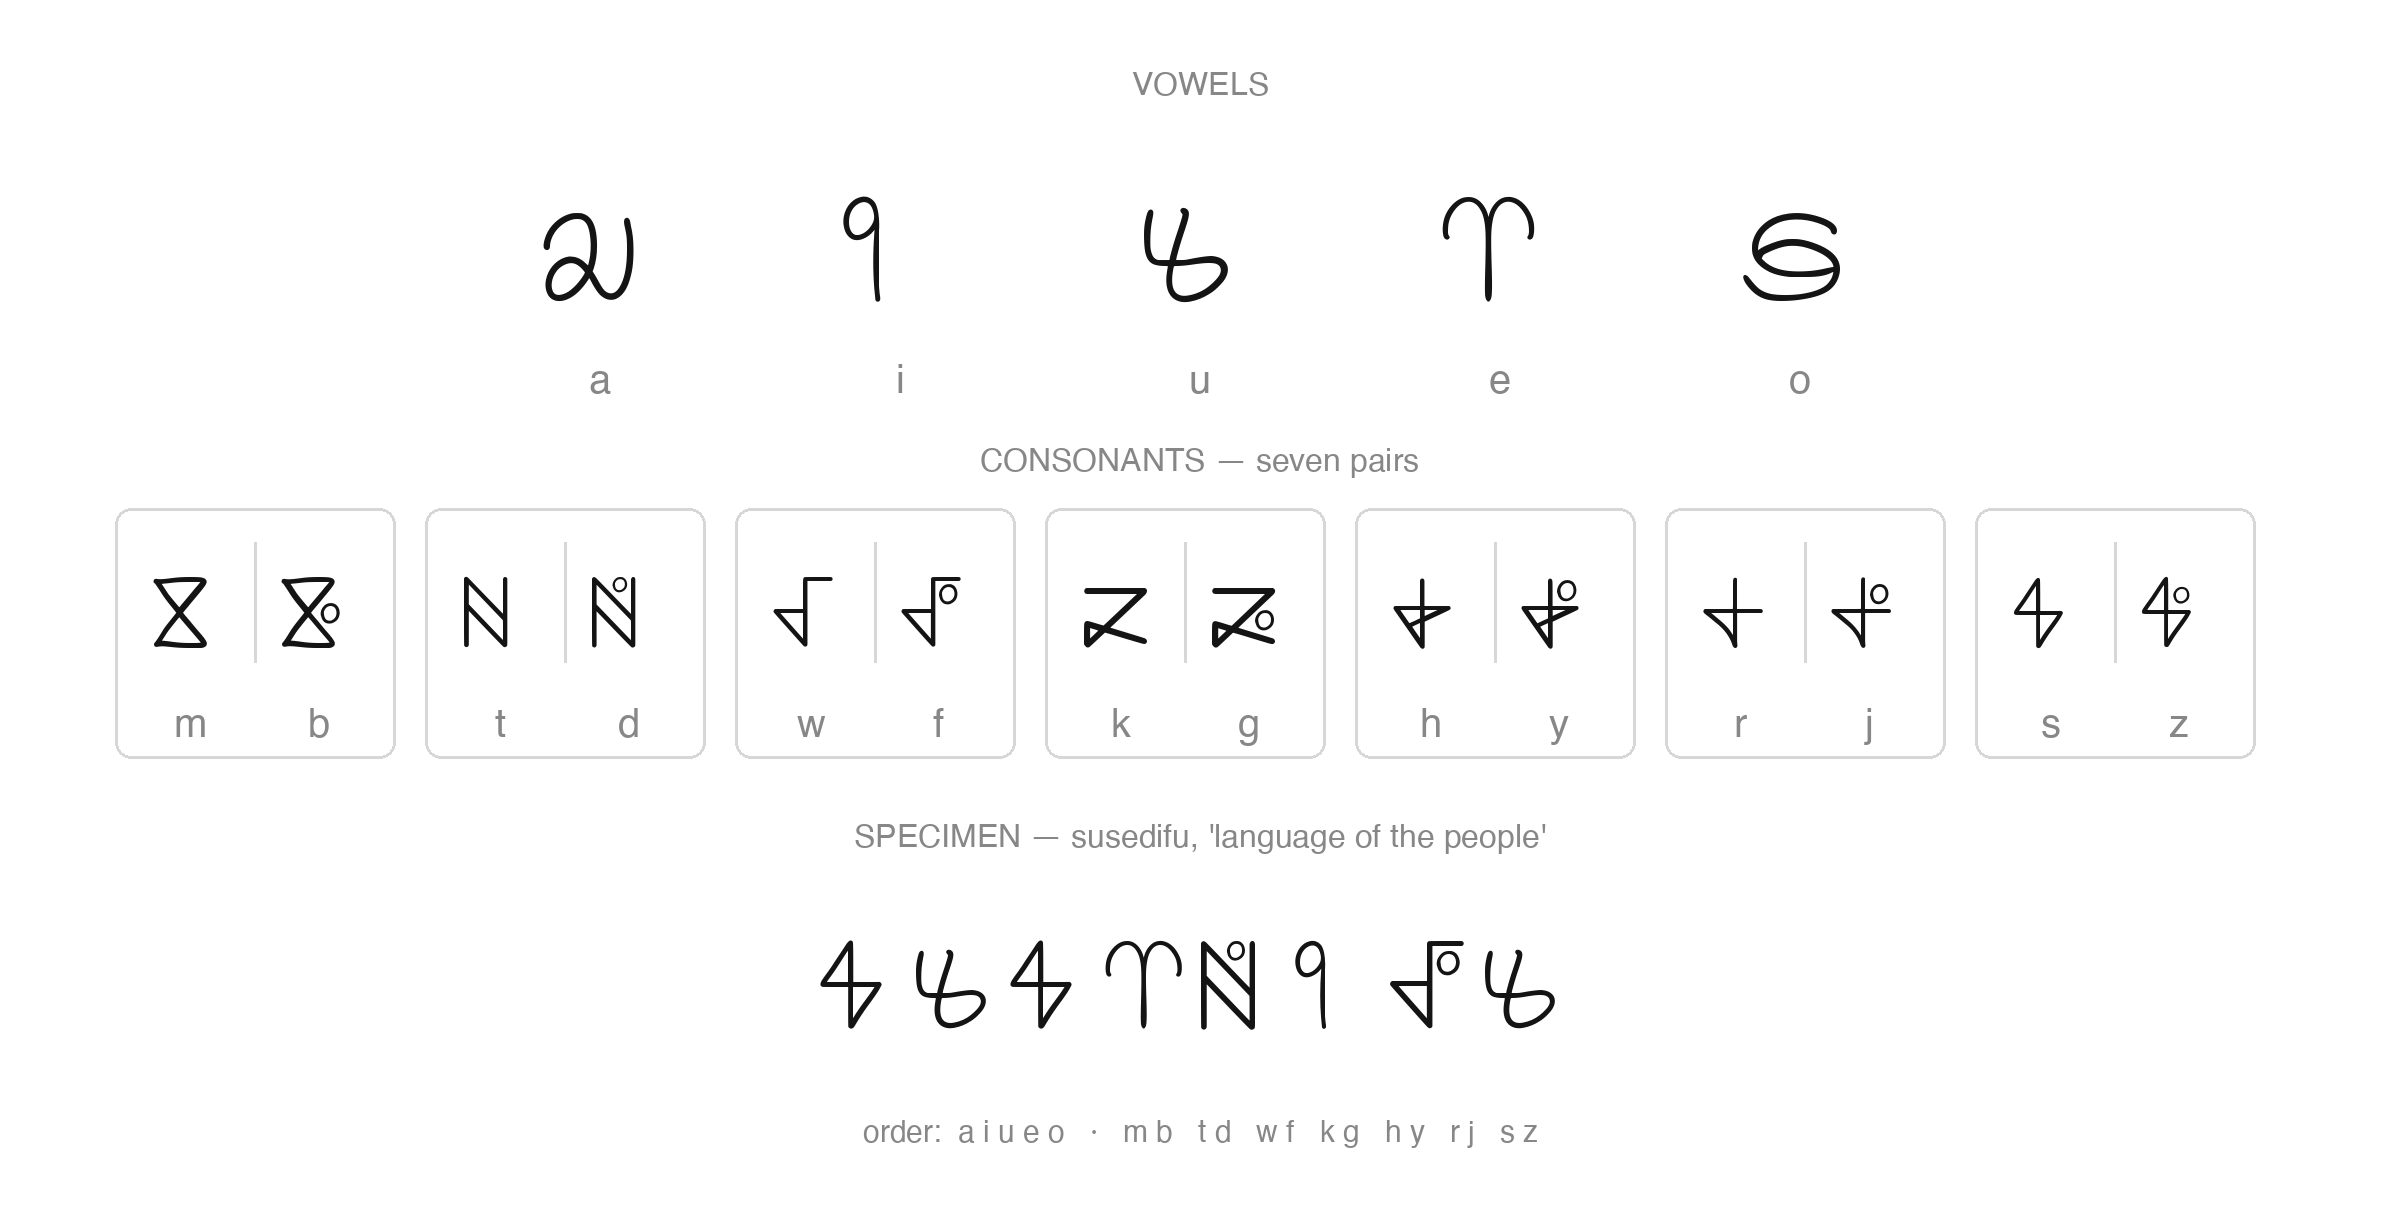
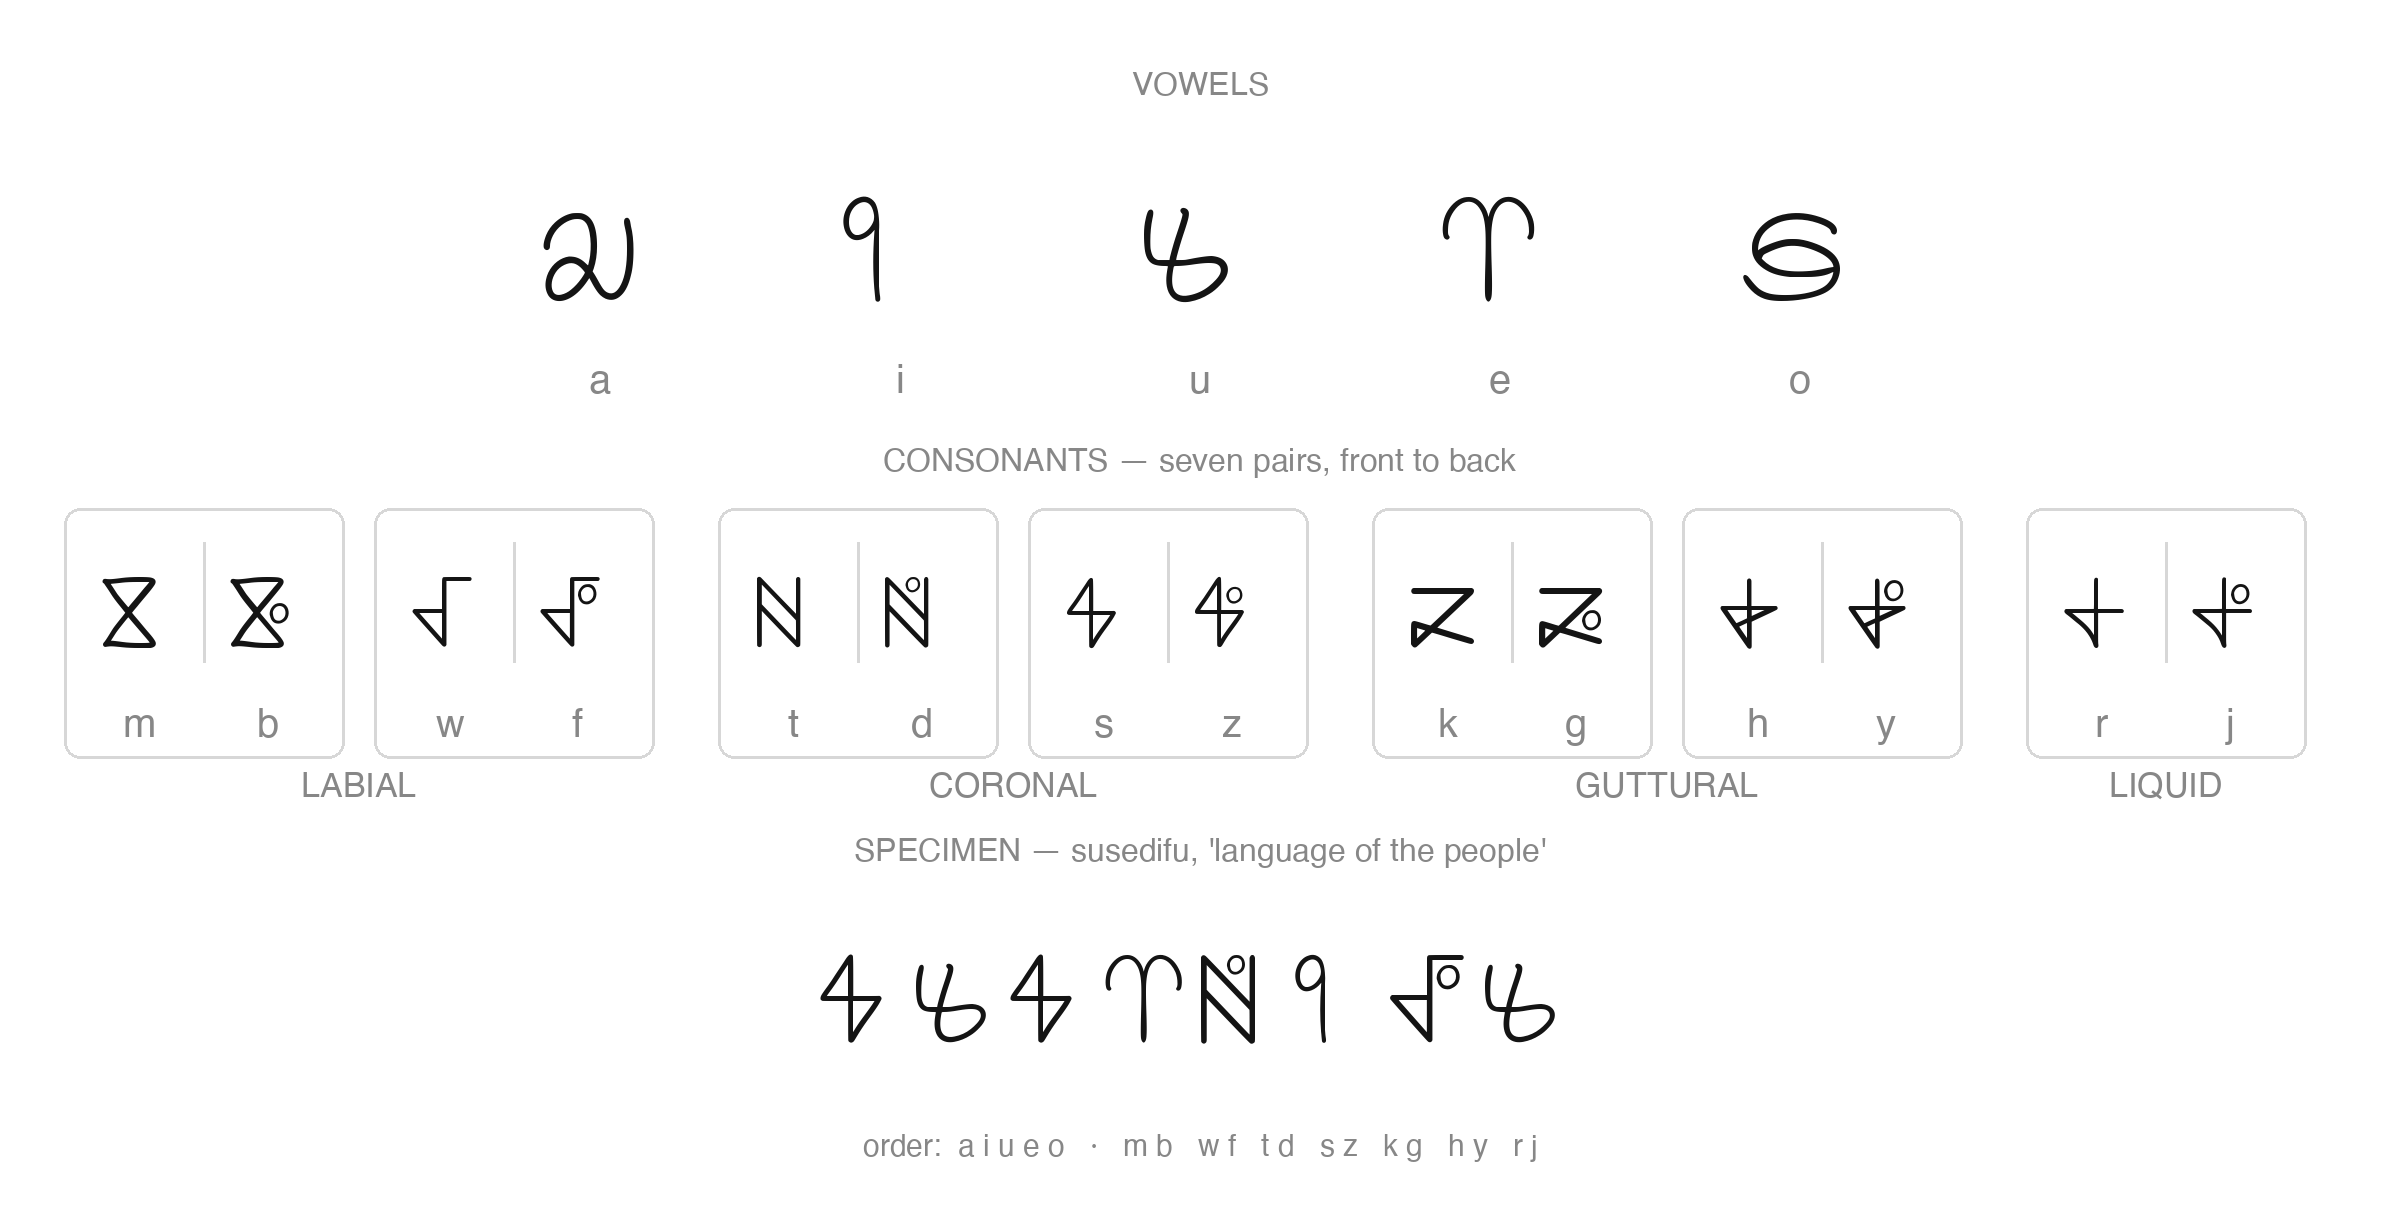
Reorder consonant pairs by place of articulation, front to back: labial (m b, w f) > coronal (t d, s z) > guttural (k g, h y) > sonorant (r j); chart regerated with place-group labels

diff --git a/alphabet.md b/alphabet.md
@@ -6,9 +6,13 @@
 ## Letter order (confirmed, 2026-11-08)
 
 - Vowels: **a i u e o**
-- Consonants, seven pairs: **m b · t d · w f · k g · h y · r j · s z**
+- Consonants, seven pairs arranged by place of articulation, front to back:
+  - Labial: **m b · w f**
+  - Coronal: **t d · s z**
+  - Guttural: **k g · h y**
+  - Sonorant: **r j**
 
-Full order: `a i u e o m b t d w f k g h y r j s z` — 19 letters.
+Within each place group, the pair with more closure comes first (m b → w f, t d → s z, k g → h y). The full order: `a i u e o m b w f t d s z k g h y r j` — 19 letters.
 
 ## Letterform chart
 
